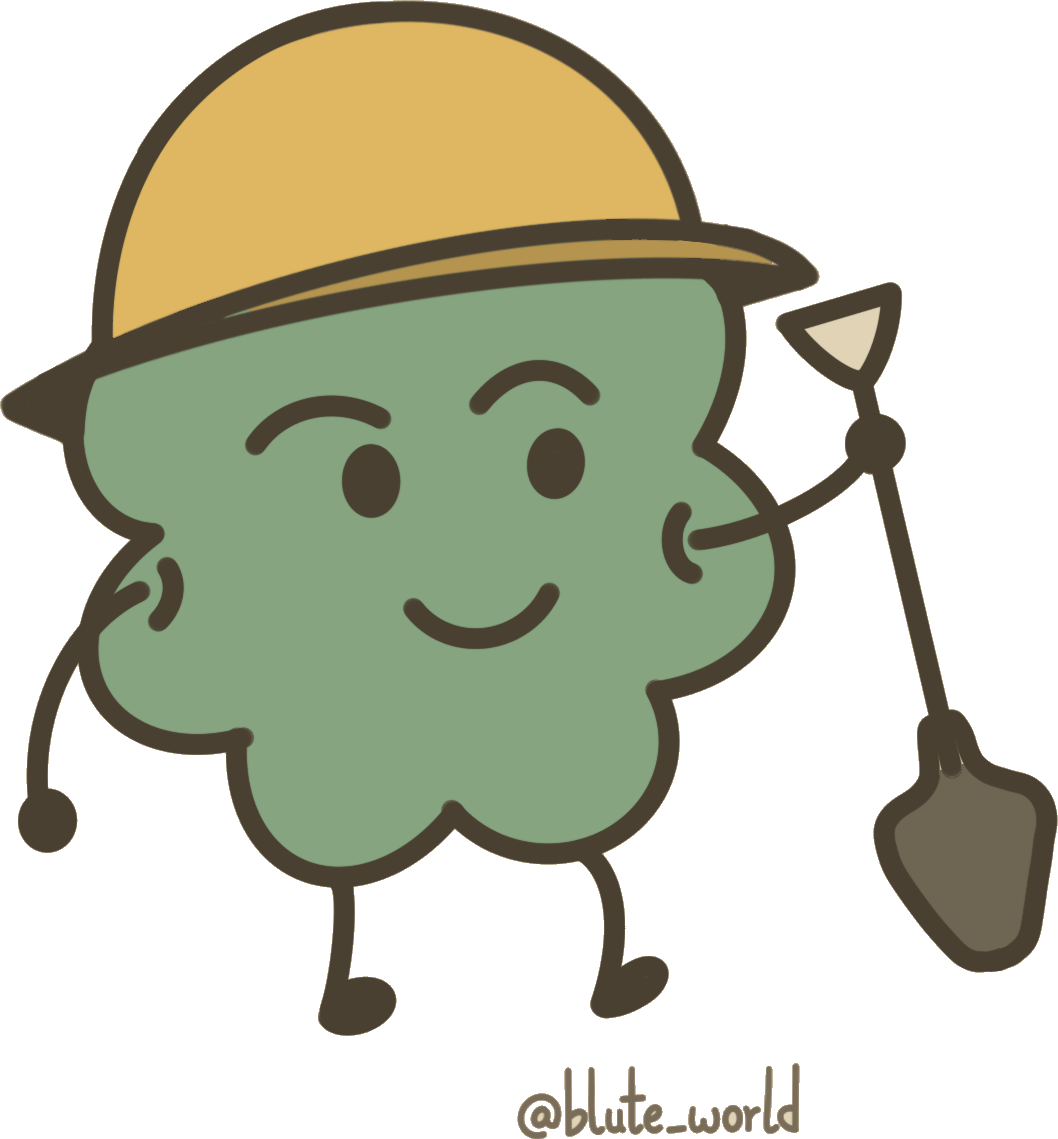
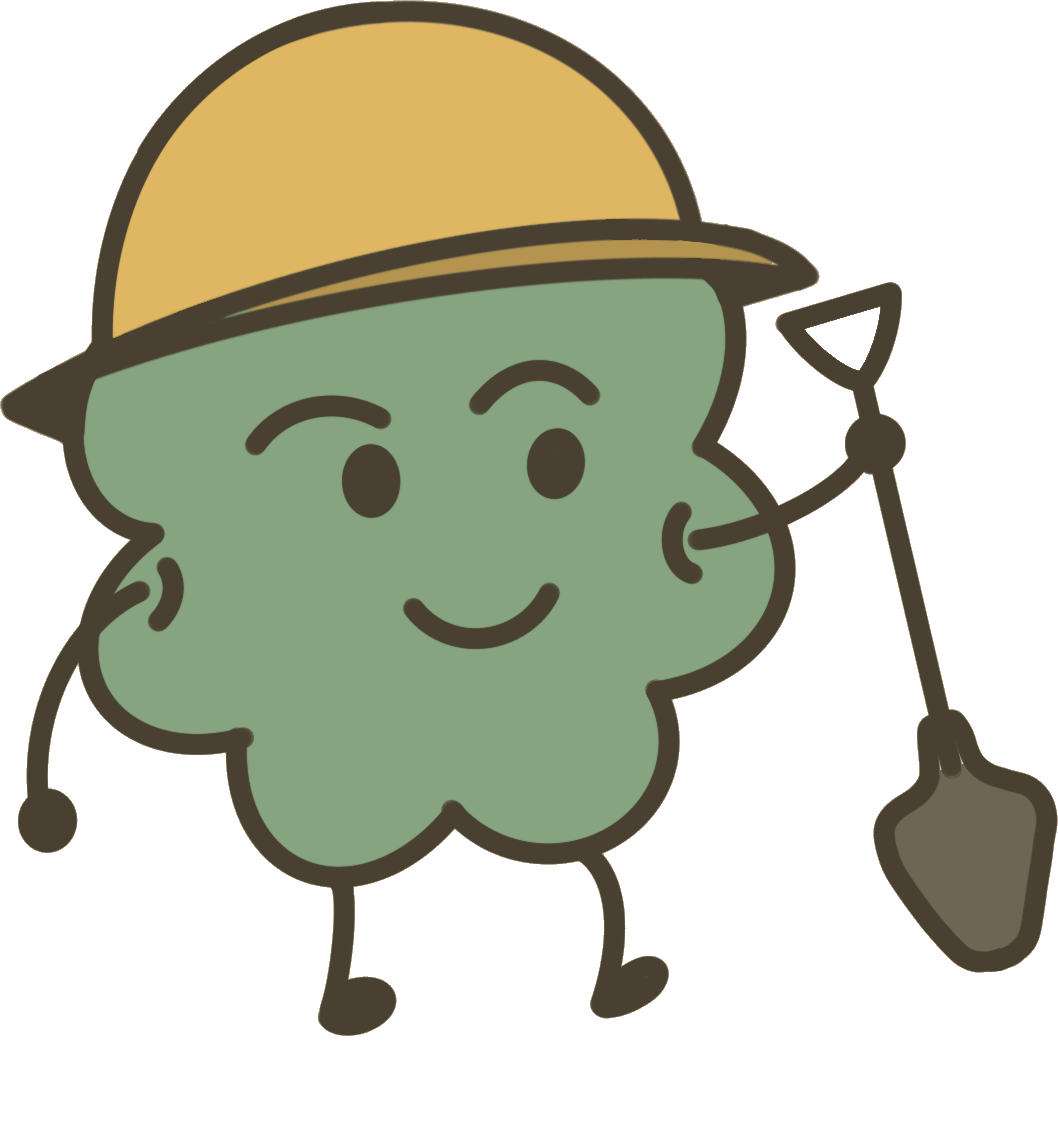
home btn refreshes board to make it easier to debug

Changed region(s): [[0.4679, 0.9219, 0.7798, 1.0], [0.7486, 0.2766, 0.8422, 0.338]]

diff --git a/script.js b/script.js
@@ -8,6 +8,8 @@ const modalOverlay = document.getElementById('modalOverlay');
 const modalContent = document.getElementById('modalContent');
 const statsBtn = document.getElementById('statsBtn');
 const infoBtn = document.getElementById('infoBtn');
+const homeBtn = document.getElementById('homeBtn');
+const secretLabel = document.getElementById('secretLabel');
 
 let dailyState = null;
 
@@ -368,19 +370,17 @@ function handleGuess(guessId) {
   }
 }
 
-function initDailyGame() {
-  const today = getTodayString();
-  const rand = seededRandom(dateToSeed(today));
-
+function buildGame(date, rand) {
   const playable = BLUTE_DATA.blutes.filter((b) => b.is_blute);
   const gridBlutes = shuffle(playable, rand).slice(0, 25);
   const secretIndex = Math.floor(rand() * 25);
   const secretBlute = gridBlutes[secretIndex];
 
   renderGrid(gridBlutes);
+  secretLabel.textContent = secretBlute.name;
 
   dailyState = {
-    date: today,
+    date,
     gridIds: gridBlutes.map((b) => b.id),
     secretId: secretBlute.id,
     history: [],
@@ -389,6 +389,11 @@ function initDailyGame() {
 
   renderHistory();
   syncGridWidth();
+}
+
+function initDailyGame() {
+  const today = getTodayString();
+  buildGame(today, seededRandom(dateToSeed(today)));
 
   getPlayerScore(today, getPlayerUUID()).then((existingScore) => {
     if (existingScore !== null) {
@@ -405,6 +410,19 @@ statsBtn.addEventListener('click', () => {
 });
 
 infoBtn.addEventListener('click', renderRulesModal);
+
+homeBtn.addEventListener('click', () => {
+  const date = dailyState ? dailyState.date : getTodayString();
+  const uuid = getPlayerUUID();
+
+  clearPlayerScore(date, uuid).finally(() => {
+    closeModal();
+    grid.classList.remove('locked');
+    questionWrap.classList.remove('locked');
+    questionInput.disabled = false;
+    buildGame(getTodayString(), Math.random);
+  });
+});
 
 modalOverlay.addEventListener('click', (e) => {
   if (e.target === modalOverlay) closeModal();

diff --git a/style.css b/style.css
@@ -31,9 +31,19 @@ body {
   color: #F0E6C8;
 }
 
+.title-group {
+  display: flex;
+  flex-direction: column;
+}
+
 .title {
   font-size: 2rem;
   font-weight: bold;
+}
+
+.secret-label {
+  font-size: 0.8rem;
+  color: rgba(240, 230, 200, 0.6);
 }
 
 .icon-buttons {
@@ -242,7 +252,8 @@ body {
   min-width: 280px;
   max-width: 90vw;
   max-height: 80vh;
-  overflow: auto;
+  overflow-y: auto;
+  overflow-x: hidden;
   font-family: sans-serif;
 }
 
@@ -255,7 +266,7 @@ body {
 }
 
 .modal ul {
-  margin: 0 0 2vmin 4vmin;
+  margin: 3vmin 2.5vmin 4vmin
 }
 
 .modal ul li {
@@ -285,15 +296,16 @@ body {
 
 .leaderboard-list {
   list-style: none;
-  width: 100%;
+  width: calc(100% - 3.5vmin);
   margin-bottom: 2vmin;
+  margin-left: -1.5vmin;
 }
 
 .leaderboard-list li {
-  display: flex;
-  justify-content: space-between;
+  display: grid;
+  grid-template-columns: 1fr auto;
   gap: 2vmin;
-  padding: 0.8vmin 0;
+  padding: 0.8vmin 0.5vmin;
   border-bottom: 1px solid rgba(172, 147, 102, 0.3);
 }
 

diff --git a/index.html b/index.html
@@ -8,13 +8,16 @@
 </head>
 <body>
   <header class="title-bar">
-    <span class="title">Guess Blute</span>
+    <div class="title-group">
+      <span class="title">Guess Blute</span>
+      <span class="secret-label" id="secretLabel"></span>
+    </div>
     <div class="icon-buttons">
-      <!-- <button class="icon-btn" aria-label="Main menu">
+      <button class="icon-btn" id="homeBtn" aria-label="Main menu">
         <svg viewBox="0 0 24 24" width="1em" height="1em" fill="currentColor">
           <path d="M12 3l9 8h-3v9h-4v-6h-4v6H5v-9H2z" />
         </svg>
-      </button> -->
+      </button>
       <button class="icon-btn" id="infoBtn" aria-label="Rules / Info">
         <svg viewBox="0 0 24 24" width="1em" height="1em" fill="currentColor">
           <circle cx="12" cy="12" r="10" fill="none" stroke="currentColor" stroke-width="2" />

diff --git a/leaderboard.js b/leaderboard.js
@@ -2,6 +2,10 @@ function submitScore(date, uuid, questionsAsked) {
   return db.ref(`leaderboard/${date}/${uuid}`).set(questionsAsked);
 }
 
+function clearPlayerScore(date, uuid) {
+  return db.ref(`leaderboard/${date}/${uuid}`).remove();
+}
+
 function getPlayerScore(date, uuid) {
   return db
     .ref(`leaderboard/${date}/${uuid}`)